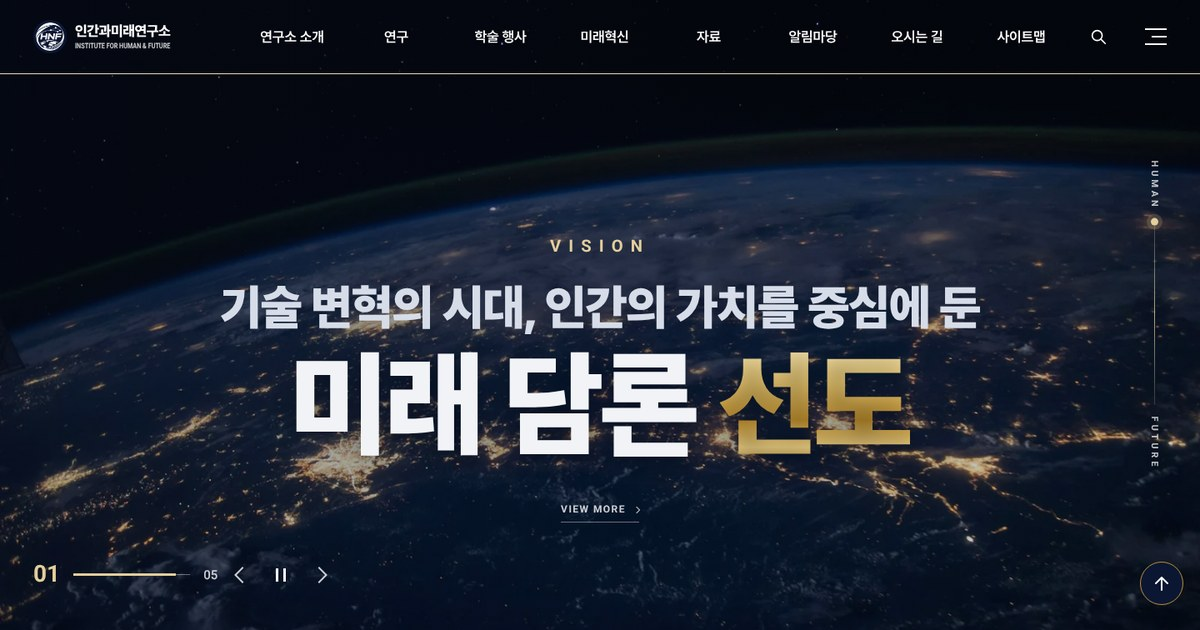
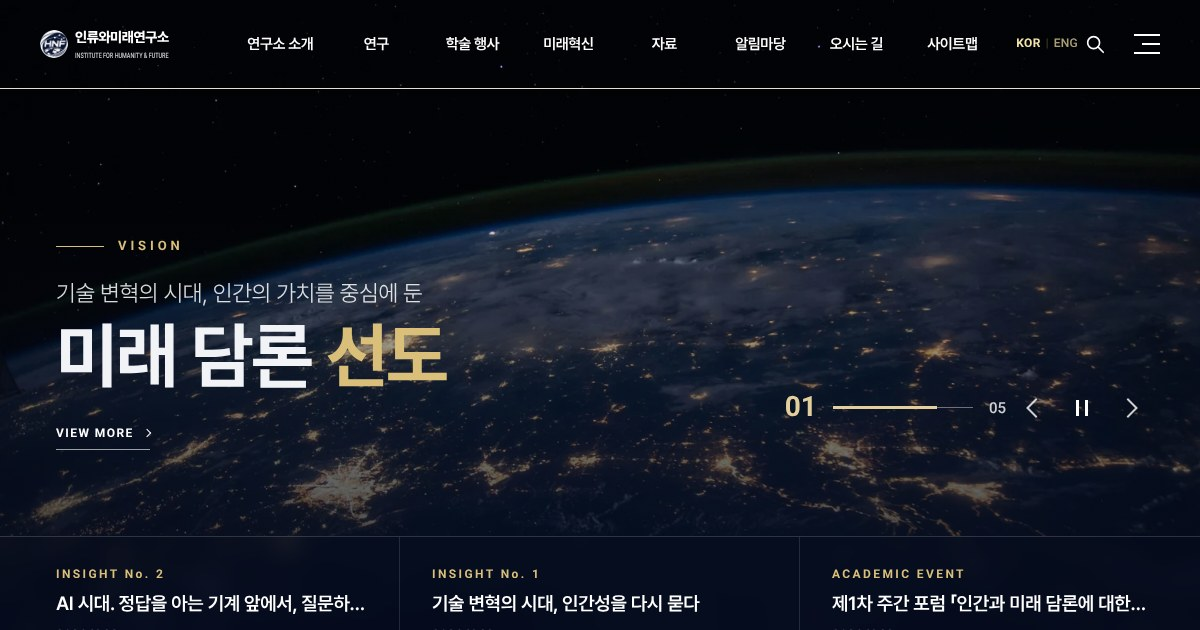
링크 미리보기 그림(og) 새 이름으로 다시 만듦, 이름 변경 작업 안내 기록
Claude-Session: https://claude.ai/code/session_01EHSrafyyYbW2BE56Xi1Ejg

diff --git a/CLAUDE.md b/CLAUDE.md
@@ -56,3 +56,9 @@
 - 첫 화면 사진 글은 왼쪽 아래(`.visual.hv-ed`, css/identity.css 끝), 사진 아래 띠 3칸 `inc/strip.php` `hnf_home_strip()`(index.html `<!--HNF:home-strip-->` 자리)
 - 자동: 인사이트 최신 2편 + 공지사항 › 학술 행사(news-notice-2) 최신 1건(모자라면 공지·소식). 관리 화면 「연구소 관리 → 첫 화면 소식 띠」에서 칸마다 글·머리 글자·아래 글자 선택(option `hnf_strip`), 고른 글이 없어지면 그 칸은 자동
 - 휴대폰은 띠를 옆으로 넘겨 봄. 첫 화면 맨 위에서는 「맨 위로」 단추 감춤(body.hv-top). 영문 첫 화면(en.html)은 그대로
+
+## 이름 변경 (11-23)
+- 연구소 이름 「인류와미래연구소」, 영문 「Institute for Humanity & Future」(HNF·로고 그림·도메인 inshnf.com 유지). 학술 주제 「인간과 미래」(Human & Future)와 주간 포럼 제목은 그대로
+- 로고 글자 그림은 `_tools/make_logo_horizontal.py`·`make_logo_vertical.py`(Pretendard: `npm pack pretendard` → /tmp/pt)로 SVG를 만들고 Playwright로 PNG. 포스터는 `_tools/poster/forum-01/poster_blue.html`
+- DB는 `wp search-replace`로 바꿈(바꾸기 전 해당 행은 서버 `~/hnf_setup/before_rename.json`에 보관). `wp db export`는 서버에서 막혀 있음
+- 랩탑·PC 작업 폴더 이름(「인간과 미래 연구소」)은 경로라서 그대로
